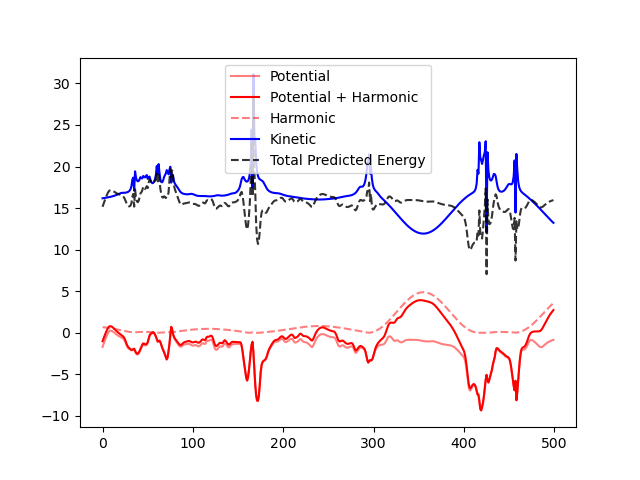
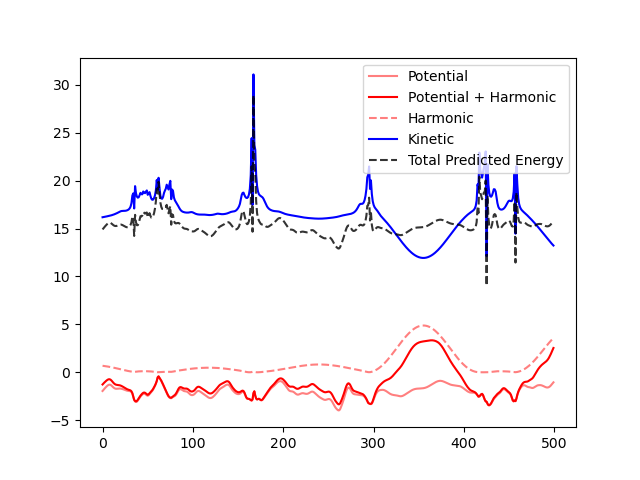
fixed parallel model loading

diff --git a/plotting-imageio.py b/plotting-imageio.py
@@ -6,20 +6,20 @@ if os.path.exists("results/temp/anim"):
     shutil.rmtree('results/temp/anim')
     os.makedirs('results/temp/anim')
 
-filename = 'results/2022-09-11/11-38-49'
+filename = 'results/2022-09-19/19-17-43'
 batch_length = 20
-a = 'angvel1'
+a = 'sep'
 
-for i in range(10, 5001, 10):
-    print(i)
-    f = f'{filename}/{i}/{a}.png'
-    img = Image.open(f)
-    I1 = ImageDraw.Draw(img)
-    I1.text((28, 36), f"epoch: {i}, batch length = {batch_length}", fill=(0, 0, 0))
-    img.save(f"results/temp/anim/{a}_{i}.png")
+# for i in range(10, 5001, 10):
+#     print(i)
+#     f = f'{filename}/{i}/{a}.png'
+#     img = Image.open(f)
+#     I1 = ImageDraw.Draw(img)
+#     I1.text((28, 36), f"epoch: {i}, batch length = {batch_length}", fill=(0, 0, 0))
+#     img.save(f"results/temp/anim/{a}_{i}.png")
 
-    if i % 500 == 0:
-        batch_length += 10
+#     if i % 500 == 0:
+#         batch_length += 10
         
 
 import imageio
@@ -40,8 +40,9 @@ import imageio
 #         writer.append_data(image)
 
 with imageio.get_writer(f'{a}.gif', format='GIF-PIL', mode='I') as writer:
-    for i in range(10, 5001, 10):
+    for i in range(50, 5001, 50):
         print(i)
-        f = f'results/temp/anim/{a}_{i}.png'
+        # f = f'results/temp/anim/{a}_{i}.png'
+        f = f'{filename}/{i}/{a}.png'
         image = imageio.imread(f)
         writer.append_data(image)

diff --git a/analysis/energy.py b/analysis/energy.py
@@ -31,7 +31,7 @@ config = dict(
     eval_batch_length=1,
     eval_init_skip=1,
     eval_traj_step=1,
-    load_folder='../results/archive/2022-09-19/12-19-49',
+    load_folder='../results/2022-09-19/19-17-43',
     dtype=torch.float32,
     itr_printing_freq=1,
     printing_freq=1,
@@ -82,13 +82,17 @@ if __name__ == '__main__':
     indices = np.random.randint(1000, size=rq.shape[0])
 
     import matplotlib.pyplot as plt
-    plt.plot(energies[indices], predicted_energies[indices], 'o')
-    plt.plot([-1, 1], [-1, 1], 'k-')
-    plt.xlabel('Actual')
-    plt.ylabel('Predicted')
-    plt.savefig('energy_matrix.png')
-    plt.close()
-
+    fig, ax = plt.subplots()
+    ax.plot(energies[indices], predicted_energies[indices], 'bo')
+    ax.plot([-4, 4], [-4, 4], 'k-')
+    ax.set_xlabel('Actual')
+    ax.set_ylabel('Predicted')
+    # set equal aspect ratio
+    ax.set_aspect('equal')
+    ax.set_xlim([-4, 4])
+    ax.set_ylim([-4, 4])
+    fig.savefig('energy_matrix.png')
+    plt.close(fig)
 
 
     num_steps = 500

diff --git a/diffmd/parallel.py b/diffmd/parallel.py
@@ -31,8 +31,7 @@ class ParallelTrainer(Trainer):
         # self.test_dataloader = self.get_parallel_dataloader(self.test_dataset, rank, world_size, self.batch_size)
         # self.validation_dataloader = self.get_parallel_dataloader(self.validation_dataset, rank, world_size, self.batch_size)
         
-        self.func = ODEFunc(self.nparticles, self.dim, self.nn_widths, self.activation_functions, self.dtype).to(self.device).to(rank)
-        self.func = DDP(self.func, device_ids=[rank], output_device=rank, find_unused_parameters=False, static_graph=False)
+        self.func = DDP(self.func.to(rank), device_ids=[rank], output_device=rank, find_unused_parameters=False, static_graph=False)
         
         self.loss_func = self.set_loss_func(self.loss_func_name)
         self.optimizer = self.set_optimizer(self.optimizer_name)
